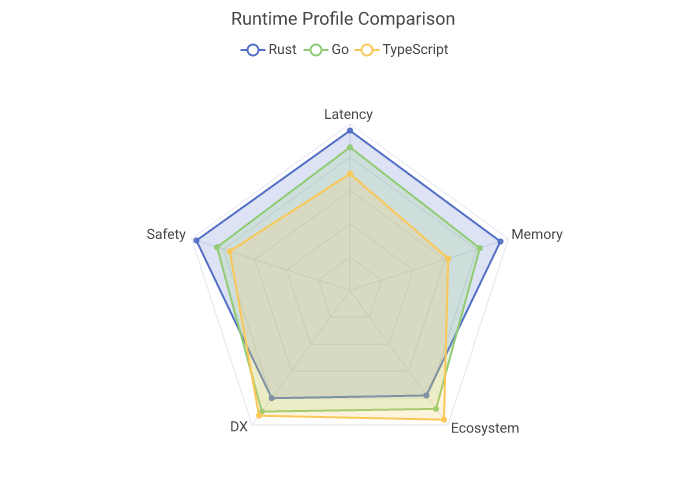
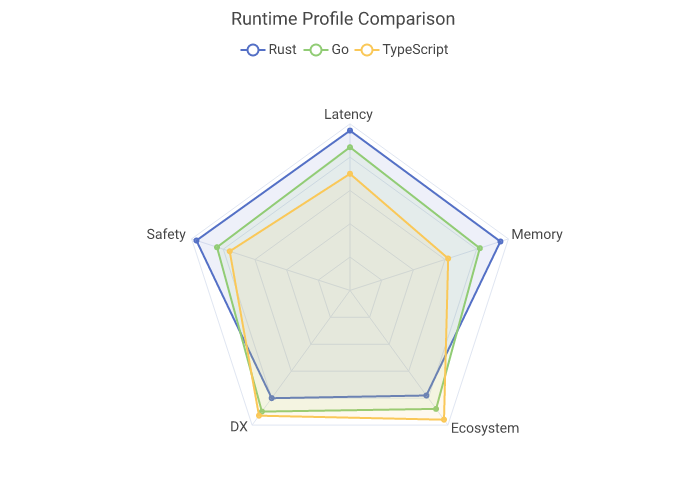
fix(mermaid): lighten radar fills so overlapping curves stay legible

Changed region(s): [[0.33, 0.375, 0.66, 0.875]]

diff --git a/src/charts/mermaid/adapters/radar.rs b/src/charts/mermaid/adapters/radar.rs
@@ -453,6 +453,10 @@ pub(crate) fn render(
         .collect();
 
     let mut radar = RadarChart::new_with_theme(series_list, indicators, theme_name);
+    // Lighter fills keep overlapping radar polygons and grid rings legible.
+    if radar.series.fill_opacity.is_none() {
+        radar.series.fill_opacity = Some(if parsed.curves.len() >= 3 { 0.10 } else { 0.16 });
+    }
     radar.shape = parsed.shape;
     radar.visual_center = true;
     if let Some(t) = parsed.ticks {
@@ -501,5 +505,14 @@ radar-beta
         let prep = preprocess(src).unwrap();
         let err = parse_radar(&prep.lines).unwrap_err().to_string();
         assert!(err.contains("line 3"), "{err}");
+    }
+
+    #[test]
+    fn three_curve_radar_uses_light_fill_opacity() {
+        let chart =
+            MermaidChart::from_json(include_str!("../../../../asset/mermaid_chart/radar.json"))
+                .unwrap();
+        let svg = chart.svg().unwrap();
+        assert!(svg.contains(r#"fill-opacity="0.1""#), "{svg}");
     }
 }
